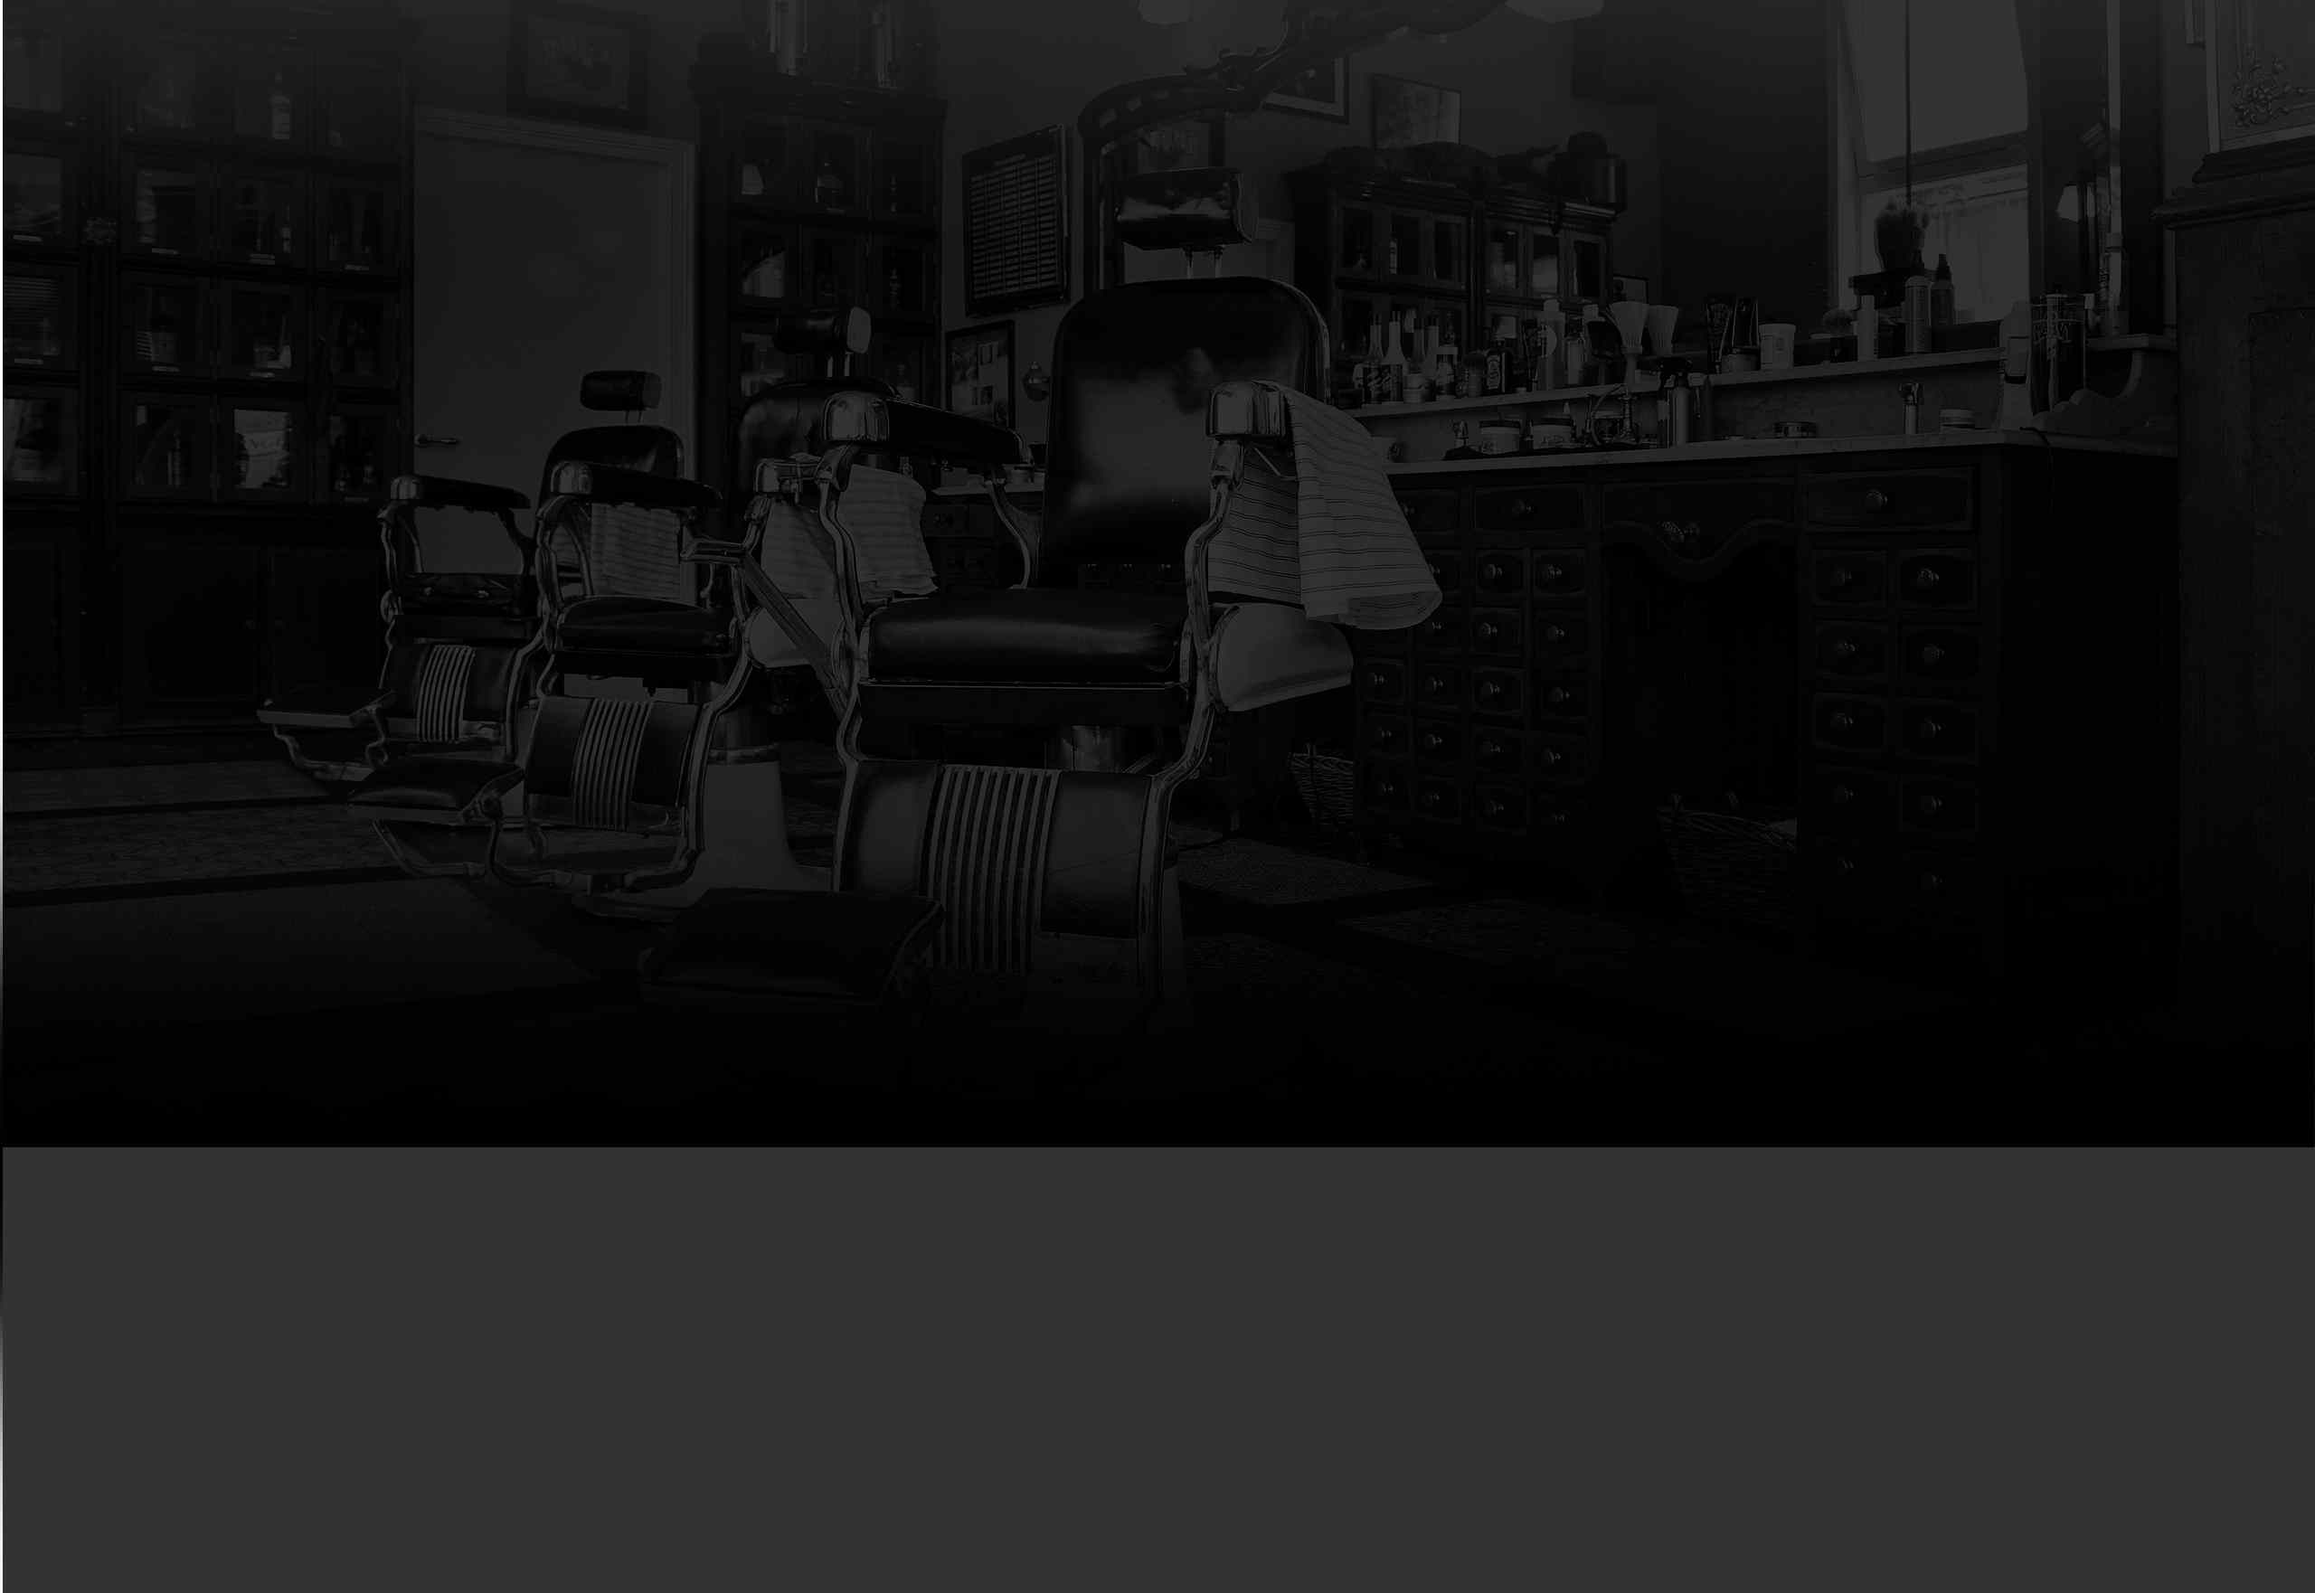
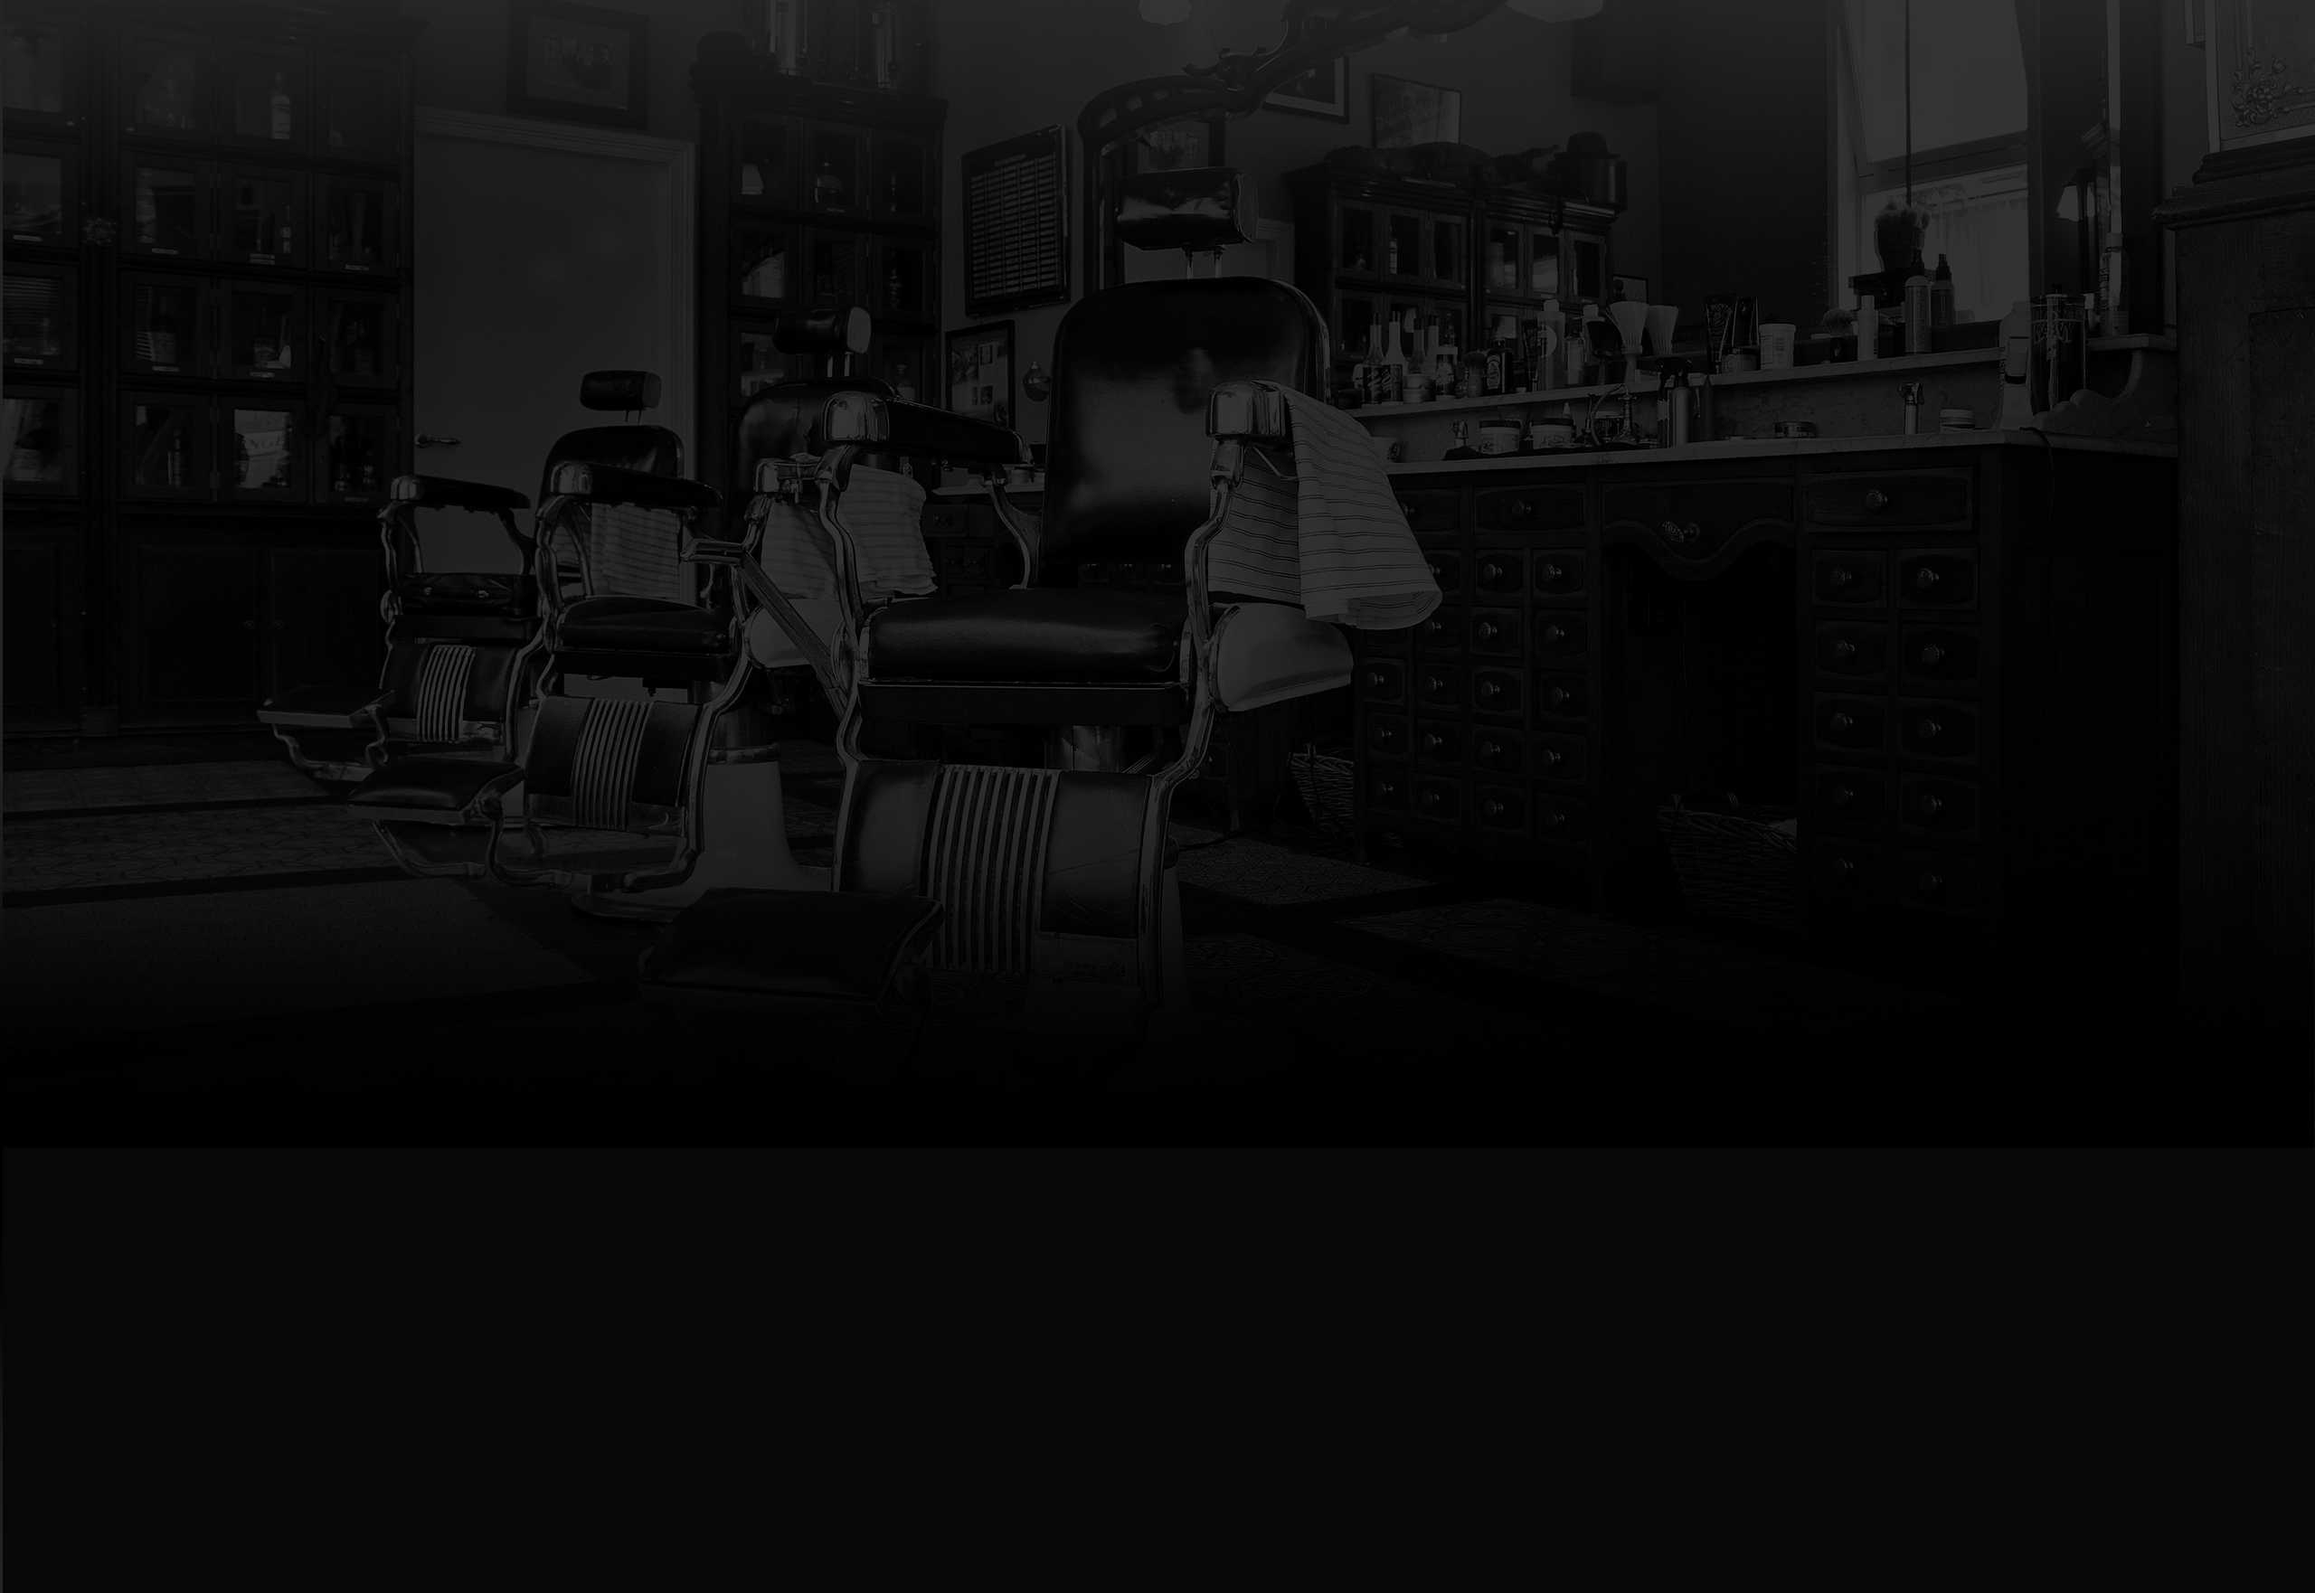
in progress

Changed region(s): [[0.0, 0.7179, 1.0, 1.0]]

diff --git a/css/style.css b/css/style.css
@@ -3,7 +3,46 @@ body {
 	margin: 0;
 	padding: 0;
 	color: #ffffff;
+	text-transform: uppercase;
+	min-width: 960px;
+	font-family: 'PT Sans Narrow', sans-serif;
+	font-size: 14px;
+	line-height: 24px;
+	font-weight: 700;
+	background:#000000 url(../img/barbershopIndexBackground.jpg) no-repeat center top;
+}
+/*Цвет фона для шапки*/
+.mainHeader{
 	background-color: #000000;
+	color: #ffffff;
+	margin-bottom: 60px;
+}
+/*Цвет ссылок шапки и отключение подчеркивания; 
+добавляем отступы */
+.mainNavigation a{
+	color:#ffffff;
+	text-decoration: none;
+
+	display: block;
+	padding: 25px 20px;
+}
+
+.mainNavigation a:hover{
+	background-color: #242424;
+}
+/*Отключение отступов и декорирования у списка ссылок в шапке*/
+.mainNavigation ul{
+	margin: 0;
+	padding: 0;
+	list-style: none;
+	font-size: 0;   /*Прием для корректировки отступов блочно-строчной модели*/
+}
+
+.mainNavigation li{
+	display: inline-block;
+	vertical-align: top;
+	font-size: 16px;
+	line-height: 20px;
 }
 /*Распорка для float*/
 .clearFix::after{
@@ -25,8 +64,40 @@ body {
 }
 /*Ширина кнопки вход и выравнивание по правому краю*/
 .userBlock{
-	width: 140px;
+	max-width: 140px;
 	float:right;
+}
+
+.login{
+	font-size: 16px;
+	line-height: 20px;
+	color: #ffffff;
+	text-decoration: none;
+	display: inline-block;
+	vertical-align: top;
+	padding: 25px 20px;
+	padding-left: 50px;
+
+	position: relative;
+}
+/*иконка для кнопки вход*/
+.login::before {
+	content: "";
+	width: 18px;
+	height: 18px;
+	background: transparent url(../img/sprite.png);
+	background-position: -10px -93px;
+	position: absolute;
+	top: 28px;
+	left: 20px;
+	opacity: 0.3;
+}
+
+.login:hover::before{
+	opacity: 1;
+}
+.login:hover{
+	background-color: #242424;
 }
 /*Размеры логотипа и его центровка*/
 .indexLogo{
@@ -39,9 +110,210 @@ body {
 	width: 300px;
 	float: left;
 	margin-right: 20px;
+
+	text-align: center;
 }
+
+
 /*Отмена отступа для последней особенности*/
 .featuresItem:last-child {
 	margin-right: 0px;
 }
 
+.features{
+	margin-bottom: 80px;
+}
+
+.featureName{
+	display: block;
+	font-size: 30px;
+	line-height: 42px;
+	margin-bottom: 30px;
+	padding-bottom: 35px;
+	position: relative;
+}
+
+.featuresItem p{
+	margin: 10px;
+	margin-bottom: 0;
+}
+
+.featureName::after{
+	content: "";
+	width: 20px;
+	height: 20px;
+	display: block;
+	background-color: #ffffff;
+	position: absolute;
+	bottom: 0;
+	left: 50%;
+	margin-left: -10px;
+	transform: rotate(45deg);
+	
+}
+
+.indexContent{
+	padding: 50px 80px;
+	margin-bottom: 35px;
+
+	background: url(../img/contentShadow.png) no-repeat center, #f8f5f2 url("../img/patternWhite.jpg");
+	color: #000000;
+}
+
+.indexContentTitle{
+	margin: 0;
+	margin-bottom: 25px;
+	font-size: 30px;
+	line-height: 42px;
+}
+
+.indexContent p{
+	margin: 0;
+	margin-bottom: 25px;
+}
+
+.newsPrev{
+	margin: 0;
+	padding: 0;
+	padding-right: 35px;
+	list-style: none;
+}
+
+.newsPrev li{
+	margin-bottom: 25px;
+}
+
+.newsPrev p{
+	margin-bottom: 0;
+}
+
+.newsPrev time{
+	text-transform: none;
+}
+
+.btn{
+	color: #ffffff;
+	background-color: #000000;
+	border:none;
+	cursor: pointer;
+	font-weight: 700;
+	font-size: 14px;
+	line-height: 24px;
+	font-family: 'PT Sans Narrow', 'Arial' sans-serif;
+	text-transform: uppercase;
+	text-decoration: none;
+	display: inline-block;
+	padding: 10px 33px;
+	vertical-align: top;
+	text-align: center;
+	margin-right: 16px;
+
+}
+
+.btn:hover,
+.btn:active{
+background-color: #663d15;
+}
+
+.btn.disabled,
+.btn:disabled{
+	cursor: default;
+	opacity: 0.5;
+}
+
+.btn.disabled:hover,
+.btn:disabled:hover {
+	background-color: #000000;
+}
+
+.indexContentLeft{
+	float: left;
+	width: 380px;
+}
+
+.indexContentRight{
+	float: right;
+	width: 300px;
+}
+
+.gallery{
+	position: relative;
+	height: 260px;
+}
+
+.galleryContent{
+	margin: 0;
+	height: 164px;
+	background-color: #cccccc;
+	border: 7px solid #ffffff;
+}
+
+.galleryContent img{
+	width: 286px;
+	height: 164px;
+}
+
+.gallery .btn{
+	position: absolute;
+	bottom: 0;
+	width: 140px;
+	margin: 0;
+}
+
+.galleryPrev{
+	left: 0;
+}
+
+.galleryNext{
+	right: 0;
+}
+
+.appointmentForm input{
+	background-color: #f9f6f3;
+	border: 2px solid #000000;
+	font-size: 14px;
+	line-height: 24px;
+	font-weight: 700;
+	font-family: 'PT Sans Narrow', 'Arial' sans-serif;
+	text-transform: uppercase;
+	width: 106px;
+	padding: 7px 15px;
+	float: left;
+	margin-right: 20px;
+	margin-bottom: 20px;
+}
+
+.appointmentForm input:nth-child(2n){
+	margin-right: 0;
+}
+
+.appointmentForm .btn{
+	clear: both;
+	width: 100%;
+}
+
+.appointmentForm input:focus{
+	border: 2px solid #663d15;
+}
+
+.mainFooter{
+	margin-top: 65px;
+	padding-top: 60px;
+	padding-bottom: 40px;
+}
+
+.footerContacts{
+	float: left;
+	width: 320px;
+	margin-right: 60px;
+}
+
+.footerSocial{
+	float: left;
+	width: 180px;
+}
+
+.footerCopyright{
+	float: right;
+	width: 180px;
+}

diff --git a/index.html b/index.html
@@ -4,6 +4,7 @@
 	<meta charset="utf-8">
 	<link rel="stylesheet" href="css/style.css">
 	<link rel="stylesheet" href="css/normalize.css">
+	<link href="https://fonts.googleapis.com/css?family=PT+Sans+Narrow:400,700&amp;subset=cyrillic" rel="stylesheet">
 	<title>Barbershop</title>
 </head>
 <body>
@@ -29,22 +30,22 @@
 		</div>
 		<section class="features clearFix">
 			<div class="featuresItem">
-				<b>Быстро</b>
-				<p>Мы делаем свою работу быстро! Два часа пролетят для вас незаметно
-				   и вы - счастливый обладатель стильной стрижки-минутки!</p>
+				<b class="featureName" >Быстро</b>
+				<p>Мы делаем свою работу быстро! Два часа пролетят  незаметно
+				   и вы — счастливый обладатель стильной стрижки-минутки!</p>
 			</div>
 			<div class="featuresItem">
-				<b>Круто</b>
+				<b class="featureName">Круто</b>
 				<p>Забудьте, как вы стриглись раньше. Мы сделаем из вас звезду футбола
 				   или кино! Во всяком случае внешне.</p>
 			</div>
 			<div class="featuresItem">
-				<b>Дорого</b>
-				<p>Наши мастера - профессионалы своего дела и не могут стоить дешево.
+				<b class="featureName" >Дорого</b>
+				<p>Наши мастера — профессионалы своего дела и не могут стоить дешево.
 				   К тому же, разве цена не дает определенный статус?</p>
 			</div>
 		</section>
-		<div class="indexContent">
+		<div class="indexContent clearFix">
 			<div class="indexContentLeft">
 				<h2 class="indexContentTitle">Новости</h2>
 				<ul class="newsPrev">
@@ -64,13 +65,15 @@
 			<div class="indexContentRight">
 				<h2 class="indexContentTitle">Фотогалерея</h2>
 				<div class="gallery">
-					<figure>
-						<img src="img/foto1.jpg" alt="Фото 1" width="268" height="164">
+					<figure class="galleryContent">
+						<img src="img/foto1.jpg" alt="Фото 1" width="286" height="164">
 					</figure>
-					<button class="btn galleryPrev">Назад</button>
+					<button class="btn galleryPrev disabled">Назад</button>
 					<button class="btn galleryNext">Вперед</button>
 				</div>
 			</div>
+		</div>
+		<div class="indexContent clearFix">
 			<div class="indexContentLeft">
 				<h2 class="indexContentTitle">Контактная информация</h2>
 				<p>Барбершоп 	&#171;  Бородинский &#187;<br>
@@ -96,7 +99,7 @@
 		</div>
 	</main>
 	<footer class="mainFooter">
-		<div class="container">
+		<div class="container clearFix">
 			<section class="footerContacts">
 				Барбершоп 	&#171;  Бородинский &#187;<br>
 				Адрес<br>
